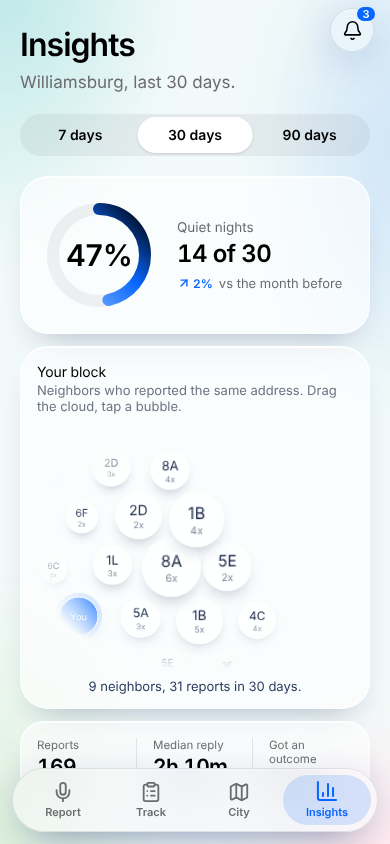
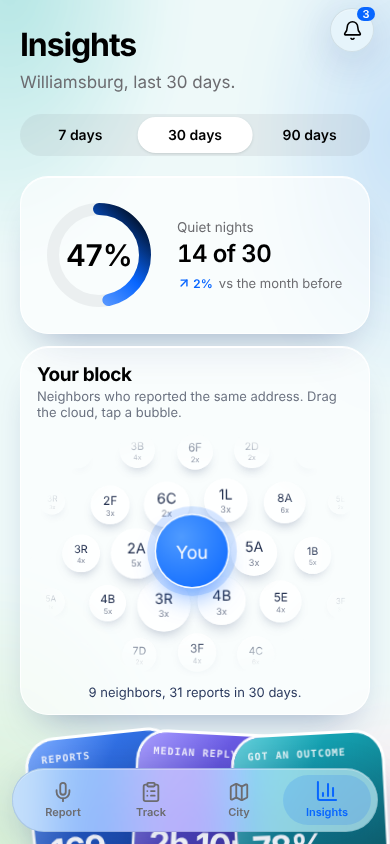
Add swipe cards, noise wheel and expanding stat tiles to the Chime app
Claude-Session: https://claude.ai/code/session_01W1PSgrzxL24zLg65adE4xW

diff --git a/index.html b/index.html
@@ -299,21 +299,21 @@ function FullScreen({children:e}){return(0,L.jsx)(`div`,{className:`phone-screen
 
 <script>if("serviceWorker" in navigator&&location.protocol!=="file:"){addEventListener("load",function(){navigator.serviceWorker.register("sw.js").catch(function(){})})}</script>
 <style id="hm-style">
-/* Chime motion pack: soft mesh, glass cards, springy touch, tilt, bubbles */
-.phone-screen{background:#f5f8fd!important}
+/* Chime motion pack v2: mesh, glass, springs, tilt, swipe cards, expanding tiles, bubbles */
+.phone-screen{background:#f3f7ff!important}
 .phone-screen::before{content:"";position:absolute;inset:-25%;z-index:0;pointer-events:none;background:
-  radial-gradient(38% 28% at 20% 16%,#cfe0ff 0,transparent 72%),
-  radial-gradient(34% 28% at 84% 26%,#e6dcff 0,transparent 72%),
-  radial-gradient(44% 34% at 22% 84%,#cdf0e7 0,transparent 72%),
-  radial-gradient(40% 30% at 88% 88%,#ffe3c9 0,transparent 72%),#f5f8fd;
+  radial-gradient(38% 28% at 20% 16%,#c8dcff 0,transparent 72%),
+  radial-gradient(34% 28% at 84% 26%,#e3d8ff 0,transparent 72%),
+  radial-gradient(44% 34% at 22% 84%,#c7efe5 0,transparent 72%),
+  radial-gradient(40% 30% at 88% 88%,#ffe1c6 0,transparent 72%),#f3f7ff;
   filter:blur(18px) hue-rotate(var(--hm-hue,0deg));animation:hmDrift 24s ease-in-out infinite alternate;transition:filter 1.1s ease}
 @keyframes hmDrift{from{transform:translate(0,0) scale(1)}to{transform:translate(-4%,3%) scale(1.08) rotate(3deg)}}
 .phone-screen>.bg-background{z-index:1;background:transparent!important}
-.phone-screen .moment{background:rgba(255,255,255,.62)!important;-webkit-backdrop-filter:blur(18px) saturate(1.4);backdrop-filter:blur(18px) saturate(1.4);border:1px solid rgba(255,255,255,.85);box-shadow:0 18px 34px -20px rgba(20,40,90,.38),inset 0 1px 0 rgba(255,255,255,.9);transform:perspective(900px) rotateX(var(--hm-rx,0deg)) rotateY(var(--hm-ry,0deg));transition:transform .55s cubic-bezier(.2,.9,.25,1.12)}
-.phone-screen .flex-wrap.gap-2>button:not([class*="bg-accent"]){background:rgba(255,255,255,.7)!important;-webkit-backdrop-filter:blur(10px);backdrop-filter:blur(10px);border:1px solid rgba(255,255,255,.9);box-shadow:0 6px 14px -8px rgba(20,40,90,.3)}
+.phone-screen h1{letter-spacing:-.035em!important;font-weight:700!important}
+.phone-screen .moment{background:rgba(255,255,255,.62)!important;-webkit-backdrop-filter:blur(18px) saturate(1.4);backdrop-filter:blur(18px) saturate(1.4);border:1px solid rgba(255,255,255,.88);box-shadow:0 22px 40px -22px rgba(20,40,110,.42),inset 0 1px 0 rgba(255,255,255,.95);transform:perspective(900px) rotateX(var(--hm-rx,0deg)) rotateY(var(--hm-ry,0deg));transition:transform .55s cubic-bezier(.2,.9,.25,1.12)}
+.phone-screen button[class*="bg-accent"]:not(nav button):not([class*="/15"]){background-image:linear-gradient(180deg,rgba(255,255,255,.22),rgba(255,255,255,0) 55%);box-shadow:0 18px 30px -14px rgba(8,102,255,.75),inset 0 1px 0 rgba(255,255,255,.45)}
 .phone-screen nav ul>span[aria-hidden]{transition-timing-function:cubic-bezier(.3,1.6,.5,1)!important;transition-duration:.7s!important}
 .phone-screen nav button svg{transition-timing-function:cubic-bezier(.3,1.7,.5,1)!important}
-.phone-screen button:active{transition-duration:.1s!important}
 @keyframes hmPop{0%{transform:scale(.9)}45%{transform:scale(1.14)}100%{transform:scale(1)}}
 .hm-pop{animation:hmPop .5s cubic-bezier(.3,1.6,.5,1)}
 .hm-rip{position:absolute;border-radius:50%;pointer-events:none;background:rgba(255,255,255,.5);transform:scale(0);animation:hmRip .75s ease-out forwards}
@@ -321,105 +321,234 @@ function FullScreen({children:e}){return(0,L.jsx)(`div`,{className:`phone-screen
 @keyframes hmRise{from{opacity:0;transform:translateY(18px) scale(.97);filter:blur(6px)}to{opacity:1;transform:none;filter:none}}
 .hm-in{animation:hmRise .7s cubic-bezier(.2,.9,.25,1.05) both}
 
+/* ---- swipe cards (stage cards, noise wheel) ---- */
+.hm-deck{position:relative;height:var(--dh,330px);margin:6px -20px 0;touch-action:pan-y;cursor:grab;user-select:none;-webkit-user-select:none;overflow:visible}
+.hm-deck:active{cursor:grabbing}
+.hm-card{position:absolute;left:50%;top:0;width:var(--cw,250px);height:calc(var(--dh,330px) - 22px);margin-left:calc(var(--cw,250px)/-2);border-radius:32px;overflow:hidden;color:#fff;box-shadow:0 0 0 3px rgba(255,255,255,.96),0 30px 44px -22px rgba(20,30,80,.6);will-change:transform,filter}
+.hm-card .bok{position:absolute;inset:0}.hm-card .bok i{position:absolute;border-radius:50%;filter:blur(14px)}
+.hm-card .in{position:absolute;inset:0;padding:20px 20px 16px;display:flex;flex-direction:column;align-items:center;text-align:center;will-change:opacity}
+.hm-card .kk{font:600 10.5px/1 ui-monospace,Menlo,monospace;letter-spacing:.12em;opacity:.85;margin-top:30px}
+.hm-card h5{margin:10px 0 8px;font-size:22px;line-height:1.08;font-weight:700;letter-spacing:-.025em;text-wrap:balance}
+.hm-card p{margin:0;font-size:13px;line-height:1.35;opacity:.93;max-width:210px}
+.hm-card canvas{position:absolute;left:0;right:0;bottom:12px;width:100%;height:80px}
+.hm-card .here{position:absolute;top:14px;right:14px;font:600 9.5px/1 ui-monospace,Menlo,monospace;letter-spacing:.08em;padding:5px 8px;border-radius:99px;background:rgba(255,255,255,.92);color:#0b2a66}
+.hm-dots{display:flex;justify-content:center;gap:7px;margin-top:4px}
+.hm-dots i{width:7px;height:7px;border-radius:50%;background:rgba(20,40,90,.2);transition:all .4s cubic-bezier(.3,1.5,.5,1)}
+.hm-dots i.on{background:#0b2a66;width:20px;border-radius:5px}
+.hm-sec h3{margin:0 0 2px;font-size:19px;font-weight:700;letter-spacing:-.02em}
+.hm-sec>p{margin:0;font-size:13px;color:#6b7280}
+
+/* ---- tilted stat tiles that expand ---- */
+.hm-tiles{position:relative;height:196px;margin:12px 0 4px}
+.hm-tile{position:absolute;top:8px;width:148px;height:170px;border-radius:28px;color:#fff;padding:14px;cursor:pointer;outline:none;box-shadow:0 0 0 3px rgba(255,255,255,.96),0 26px 38px -20px rgba(20,30,90,.6);transform:rotate(var(--r)) perspective(700px) rotateX(var(--rx,0deg)) rotateY(var(--ry,0deg));transition:transform .5s cubic-bezier(.2,.9,.25,1.1),opacity .3s;animation:hmFloat 6s ease-in-out infinite;overflow:hidden}
+.hm-tile::after{content:"";position:absolute;inset:0;background:linear-gradient(118deg,rgba(255,255,255,.34),rgba(255,255,255,0) 40%);pointer-events:none}
+.hm-tile.hid{opacity:0;pointer-events:none}
+@keyframes hmFloat{0%,100%{translate:0 0}50%{translate:0 -6px}}
+.hm-tile .t1{font:600 10px/1 ui-monospace,Menlo,monospace;letter-spacing:.1em;opacity:.85}
+.hm-tile .t2{position:absolute;left:14px;right:14px;bottom:42px;font-size:34px;line-height:1;font-weight:700;letter-spacing:-.04em}
+.hm-tile .t3{position:absolute;left:14px;right:14px;bottom:14px;font-size:13px;line-height:1.2;opacity:.92}
+.hm-sheet{position:absolute;z-index:70;background:#f7f9ff;overflow:hidden;visibility:hidden;transition:left .62s cubic-bezier(.2,.9,.25,1.04),top .62s cubic-bezier(.2,.9,.25,1.04),width .62s cubic-bezier(.2,.9,.25,1.04),height .62s cubic-bezier(.2,.9,.25,1.04),border-radius .62s cubic-bezier(.2,.9,.25,1.04),transform .62s cubic-bezier(.2,.9,.25,1.04);box-shadow:0 0 0 3px rgba(255,255,255,.96),0 30px 50px -20px rgba(20,30,90,.5)}
+.hm-sheet.show{visibility:visible}.hm-sheet.full{box-shadow:none}
+.hm-sheet .sb{position:absolute;inset:0;padding:68px 24px 40px;opacity:0;transition:opacity .3s}.hm-sheet.in .sb{opacity:1;transition-delay:.25s}
+.hm-sheet .x{position:absolute;right:18px;top:18px;width:38px;height:38px;border-radius:50%;border:0;background:rgba(20,40,90,.1);display:grid;place-items:center;cursor:pointer;z-index:3;opacity:0;transition:opacity .3s}.hm-sheet.in .x{opacity:1;transition-delay:.3s}
+.hm-sheet .kk{font:600 11px/1 ui-monospace,Menlo,monospace;letter-spacing:.1em;color:#6b7280}
+.hm-sheet .big{font-size:64px;line-height:1;font-weight:700;letter-spacing:-.05em;margin:10px 0 6px}
+.hm-sheet h4{margin:0 0 8px;font-size:24px;font-weight:700;letter-spacing:-.03em}
+.hm-sheet p{margin:0 0 14px;font-size:15px;line-height:1.45;color:#46506b}
+.hm-sheet svg.spark{width:100%;height:110px;display:block;border-radius:20px;background:#fff}
+.hm-sheet .note{font-size:12px;color:#8a93a8;margin-top:12px}.hm-sheet .tips{margin:22px 0 0;padding:0;list-style:none;display:grid;gap:10px}.hm-sheet .tips li{font-size:14px;color:#46506b;padding:12px 14px;border-radius:16px;background:rgba(255,255,255,.8);border:1px solid rgba(255,255,255,.9)}
+
+/* ---- bubbles ---- */
 .hm-bubbles{padding:16px 16px 12px!important}
-.hm-bubbles h3{margin:0;font:700 17px/1.2 inherit;letter-spacing:-.01em}
-.hm-bubbles p{margin:2px 0 0;font-size:13px;color:#6b7280}
 .hm-field{position:relative;height:250px;margin:8px -8px 0;overflow:hidden;cursor:grab;touch-action:none;-webkit-mask-image:radial-gradient(closest-side at 50% 50%,#000 68%,transparent 100%);mask-image:radial-gradient(closest-side at 50% 50%,#000 68%,transparent 100%)}
 .hm-b{position:absolute;left:0;top:0;border-radius:50%;display:grid;place-items:center;font:600 12px/1 inherit;color:#1c2a4a;background:rgba(255,255,255,.78);border:1px solid rgba(255,255,255,.95);box-shadow:0 8px 16px -8px rgba(20,40,90,.4);will-change:transform;text-align:center}
 .hm-b small{display:block;font-size:9px;opacity:.6;margin-top:1px}
 .hm-b.you{background:radial-gradient(circle at 35% 30%,#4f9bff,#0866ff);color:#fff;box-shadow:0 0 0 6px rgba(8,102,255,.16),0 12px 22px -8px rgba(8,102,255,.7)}
 .hm-b.sel{background:#fff3c4;box-shadow:0 0 0 5px rgba(255,214,107,.45),0 12px 22px -8px rgba(20,40,90,.45)}
 .hm-info{margin-top:6px;text-align:center;font-size:13px;color:#2b3a5e;min-height:18px}
-@media (prefers-reduced-motion:reduce){.phone-screen::before{animation:none}.hm-in,.hm-pop{animation:none}}
+@media (prefers-reduced-motion:reduce){.phone-screen::before,.hm-tile{animation:none}.hm-in,.hm-pop{animation:none}}
 </style>
 <script id="hm-js">
 (function(){
   try{
-    var root=function(){return document.querySelector('.phone-screen')};
+    var raf=window.requestAnimationFrame.bind(window);
+    function root(){return document.querySelector('.phone-screen')}
     function clamp(v,a,b){return Math.max(a,Math.min(b,v))}
+    function prng(s){return function(){s=(s*16807)%2147483647;return s/2147483647}}
+    function seed(str){var h=2166136261;for(var i=0;i<str.length;i++){h^=str.charCodeAt(i);h=Math.imul(h,16777619)}return (h>>>0)||1}
+    function waveOf(sd){var r=prng(sd),h=[];for(var i=0;i<6;i++)h.push({f:1+r()*9,p:r()*6.28,a:.3+r()*.7,s:.4+r()*1.6});return h}
+    function drawWave(c,w,t,en,col){
+      var d=Math.min(2,window.devicePixelRatio||1),W=c.clientWidth,H=c.clientHeight;if(!W)return;
+      if(c.width!==Math.round(W*d)){c.width=Math.round(W*d);c.height=Math.round(H*d)}
+      var x=c.getContext('2d'),mid=c.height/2,amp=c.height*.36;x.clearRect(0,0,c.width,c.height);
+      for(var L=1;L>=0;L--){x.beginPath();
+        for(var i=0;i<=120;i++){var u=i/120,y=0;for(var k=0;k<w.length;k++){var m=w[k];y+=Math.sin(u*m.f*Math.PI*2*(1+en*.6)+m.p+t*m.s*(1+en*2)+L*.6)*m.a*(k<2?1:en)}
+          y=(y/2.4)*Math.sin(u*Math.PI)*en+Math.sin(u*Math.PI*4+t*1.2)*.04*(1-en)*Math.sin(u*Math.PI);x.lineTo(u*c.width,mid+y*amp*(1-L*.2))}
+        x.lineWidth=(L?1.4:3)*d;x.lineCap='round';x.strokeStyle=col;x.globalAlpha=L?.35:1;x.stroke()}
+      x.globalAlpha=1}
 
-    // ---- tilt the glass cards toward the pointer ----
+    // ---- spring carousel ----
+    function Deck(el,n,step,apply){
+      var o={pos:0,vel:0,target:0,drag:false,idx:-1,onIdx:null,onTap:null},sp=0,down=false,sx=0,sy=0,lx=0,lt=0,vx=0,moved=false,tapEl=null,locked=false;
+      el.addEventListener('pointerdown',function(e){if(e.button>0)return;down=true;moved=false;locked=false;o.drag=false;sx=lx=e.clientX;sy=e.clientY;lt=performance.now();vx=0;tapEl=e.target.closest('.hm-card');sp=o.pos});
+      el.addEventListener('pointermove',function(e){if(!down)return;var tx=e.clientX-sx,ty=e.clientY-sy;
+        if(!o.drag){if(Math.abs(tx)>8&&Math.abs(tx)>Math.abs(ty)){o.drag=true;moved=true;try{el.setPointerCapture(e.pointerId)}catch(_){}}else return}
+        var now=performance.now(),dt=Math.max(1,now-lt);vx=vx*.6+((e.clientX-lx)/dt*16)*.4;lx=e.clientX;lt=now;o.pos=clamp(sp-tx/step,-.4,n-.6);o.vel=0});
+      function up(){if(!down)return;down=false;var wasDrag=o.drag;o.drag=false;
+        if(wasDrag)o.target=clamp(Math.round(o.pos-vx/step*7),0,n-1);
+        else if(!moved&&tapEl&&o.onTap)o.onTap(tapEl)}
+      el.addEventListener('pointerup',up);el.addEventListener('pointercancel',function(){down=false;o.drag=false});
+      o.go=function(i){o.target=i};
+      o.tick=function(){var prev=o.pos;if(!o.drag){o.vel=(o.vel+(o.target-o.pos)*.11)*.78;o.pos+=o.vel}
+        var idx=clamp(Math.round(o.pos),0,n-1);if(idx!==o.idx){o.idx=idx;o.onIdx&&o.onIdx(idx)}apply(o.pos,o.pos-prev)};
+      return o}
+
+    var decks=[],t0=performance.now();
+    function mkCard(g,bokSeed,wseed,inner){
+      var c=document.createElement('div');c.className='hm-card';c.style.background='linear-gradient(165deg,'+g[0]+' 0%,'+g[1]+' 100%)';
+      var r=prng(bokSeed),bok='';for(var k=0;k<6;k++){var sz=40+r()*90;bok+='<i style="width:'+sz+'px;height:'+sz+'px;left:'+(r()*100-15)+'%;top:'+(r()*100-10)+'%;background:rgba(255,255,255,'+(.12+r()*.2)+')"></i>'}
+      c.innerHTML='<div class="bok">'+bok+'</div><div class="in">'+inner+'</div><canvas></canvas>';
+      return {el:c,inn:c.querySelector('.in'),cv:c.querySelector('canvas'),w:waveOf(wseed)}}
+    function layout(cards,step,fan){return function(pos,vel){cards.forEach(function(c,i){var d=i-pos,a=Math.abs(d);
+      c.el.style.transform='translateX('+(d*step)+'px) translateY('+(a*14)+'px) rotate('+(d*fan)+'deg) scale('+(1-Math.min(a,2)*.07)+')';
+      c.el.style.filter='blur('+Math.min(9,a*2.2+Math.abs(vel)*6).toFixed(2)+'px)';c.el.style.zIndex=20-Math.round(a*2);c.el.style.visibility=a>2.3?'hidden':'visible';c.inn.style.opacity=clamp(1-a*1.35,0,1)})}}
+
+    // ================= Track: stage cards =================
+    var STG=[
+      {k:'STAGE 1 OF 5',t:'We heard you.',b:'Your report is on the record, with your spot and the time.',g:['#3b82ff','#0a2a7a'],e:.95},
+      {k:'STAGE 2 OF 5',t:'On the right desk.',b:'It goes to the team that handles this kind of noise.',g:['#7b6bff','#241a73'],e:.75},
+      {k:'STAGE 3 OF 5',t:'We are on the way.',b:'Someone has your case and is heading over.',g:['#17b8c9','#0a4452'],e:.55},
+      {k:'STAGE 4 OF 5',t:'We listened.',b:'They checked, and notes from the visit are on your case.',g:['#34c38f','#0b4a38'],e:.32},
+      {k:'STAGE 5 OF 5',t:'Here is what they decided.',b:'The outcome is posted. Then you tell us if it got quieter.',g:['#5b8cff','#0b1e5b'],e:.12}];
+    var stageNow=1;
+    function readStage(){
+      var leaf=[].slice.call(document.querySelectorAll('main *')).find(function(e){return !e.children.length&&e.textContent.trim()==='We heard you.'&&e.offsetParent!==null});
+      if(!leaf)return stageNow;var c=leaf;for(var i=0;i<8&&c.parentElement;i++){c=c.parentElement;if(/Here is what they decided/.test(c.textContent)&&c.querySelector('svg.lucide-check'))break}
+      return clamp(1+c.querySelectorAll('svg.lucide-check').length,1,5)}
+    function ensureTrack(){
+      var p=[].slice.call(document.querySelectorAll('main p')).find(function(e){return /^You don.t have to carry this alone/.test(e.textContent.trim())&&e.offsetParent!==null});
+      if(!p||document.querySelector('.hm-trackdeck'))return;
+      var sec=document.createElement('div');sec.className='hm-sec hm-trackdeck mt-6';
+      sec.innerHTML='<h3>Where your case is</h3><p>Swipe through the five stages.</p><div class="hm-deck" style="--cw:250px;--dh:340px"></div><div class="hm-dots"></div>';
+      p.parentElement.insertBefore(sec,p);
+      var deck=sec.querySelector('.hm-deck'),dots=sec.querySelector('.hm-dots'),cards=[];
+      stageNow=readStage();
+      STG.forEach(function(s,i){var c=mkCard(s.g,50+i,200+i,'<div class="kk">'+s.k+'</div><h5>'+s.t+'</h5><p>'+s.b+'</p>');
+        var pill=document.createElement('span');pill.className='here';pill.textContent='YOU ARE HERE';c.el.appendChild(pill);c.pill=pill;deck.appendChild(c.el);cards.push(c);dots.appendChild(document.createElement('i'))});
+      var D=Deck(deck,STG.length,226,layout(cards,226,8));D.pos=D.target=stageNow-1;
+      D.onIdx=function(i){[].forEach.call(dots.children,function(d,k){d.className=k===i?'on':''})};
+      decks.push({d:D,tick:function(t){if(!deck.isConnected)return false;var n=readStage();if(n!==stageNow){stageNow=n;D.go(n-1)}
+        cards.forEach(function(c,i){c.pill.style.display=i===stageNow-1?'block':'none';if(Math.abs(i-D.pos)<1.6)drawWave(c.cv,c.w,t,STG[i].e,'rgba(255,255,255,.95)')});D.tick();return true}});
+    }
+
+    // ================= Report: noise card wheel =================
+    var NZ=[['Music or party',['#7b5cff','#2a1a7a']],['Construction',['#ff8a3d','#7a3300']],['Car horns',['#ff4d6d','#6e0a25']],['Neighbors',['#35c2a8','#0a4a3f']],['AC or vents',['#9aa6c4','#2f3858']],['Bar or club',['#4d8dff','#0c2b6e']],['Sirens',['#ff5a5a','#5a0b0b']],['Deliveries',['#e8b33a','#6b4a00']]];
+    var chipsEl=null;
+    function chipBox(){if(chipsEl&&chipsEl.isConnected)return chipsEl;chipsEl=[].slice.call(document.querySelectorAll('main .flex-wrap')).find(function(e){return e.offsetParent!==null&&/Music or party/.test(e.textContent)&&/Deliveries/.test(e.textContent)})||null;return chipsEl}
+    function chipByName(n){var b=chipBox();return b&&[].slice.call(b.querySelectorAll('button')).find(function(x){return x.textContent.trim()===n})}
+    function selIdx(){var b=chipBox();if(!b)return 0;var k=[].slice.call(b.querySelectorAll('button')).findIndex(function(x){return x.getAttribute('aria-pressed')==='true'});return k<0?0:k}
+    function ensureWheel(){
+      var box=chipBox();if(!box||document.querySelector('.hm-wheel'))return;
+      var wrap=document.createElement('div');wrap.className='hm-wheel';wrap.innerHTML='<div class="hm-deck" style="--cw:170px;--dh:196px;margin-top:8px"></div><div class="hm-dots"></div>';
+      box.parentElement.insertBefore(wrap,box);box.style.display='none';
+      var deck=wrap.querySelector('.hm-deck'),dots=wrap.querySelector('.hm-dots'),cards=[];
+      NZ.forEach(function(z,i){var c=mkCard(z[1],70+i,300+i,'<div class="kk">THE RACKET</div><h5 style="margin-top:14px">'+z[0]+'</h5>');c.el.querySelector('h5').style.fontSize='20px';deck.appendChild(c.el);cards.push(c);dots.appendChild(document.createElement('i'))});
+      var D=Deck(deck,NZ.length,150,layout(cards,150,6));D.pos=D.target=selIdx();var settle=0,lastSel=selIdx();
+      D.onIdx=function(i){[].forEach.call(dots.children,function(d,k){d.className=k===i?'on':''});if(i!==selIdx()){var b=chipByName(NZ[i][0]);if(b)b.click()}};
+      D.onTap=function(el){var i=cards.findIndex(function(c){return c.el===el});if(i>=0)D.go(i)};
+      decks.push({d:D,tick:function(t){if(!deck.isConnected)return false;var s=selIdx();if(s!==lastSel){lastSel=s;if(Math.round(D.pos)!==s)D.go(s)}
+        cards.forEach(function(c,i){if(Math.abs(i-D.pos)<1.6)drawWave(c.cv,c.w,t,.85,'rgba(255,255,255,.95)')});D.tick();return true}});
+    }
+
+    // ================= Insights: tilted tiles that expand =================
+    var TILES=[
+      {k:'REPORTS',big:null,sub:'filed this week',g:['#3b82ff','#0a2a7a'],r:-6,l:'4%',d:'How many noise complaints were filed in your neighborhood this week. Reports at the same address are grouped, so one noisy spot counts once on your case.',seedv:3},
+      {k:'MEDIAN REPLY',big:null,sub:'to a first answer',g:['#7b6bff','#241a73'],r:3,l:'33%',d:'Half of reports get a first answer faster than this. It is the quickest way to see how the city is keeping up.',seedv:5},
+      {k:'GOT AN OUTCOME',big:null,sub:'ended in writing',g:['#17b8c9','#0a4452'],r:-3,l:'62%',d:'The share of reports that ended with a written outcome you can read, not just a closed ticket.',seedv:8}];
+    var sheetOpen=false;
+    function ensureStats(){
+      var st=document.querySelector('.anim-step');if(!st||!/Median reply/.test(st.textContent))return;
+      var grid=[].slice.call(st.querySelectorAll('section.moment')).find(function(e){return /Median reply/.test(e.textContent)&&/Got an outcome/.test(e.textContent)&&!e.classList.contains('hm-bubbles')});
+      if(!grid||st.querySelector('.hm-tiles'))return;
+      var vals=[].slice.call(grid.querySelectorAll('div.px-4')).map(function(d){return (d.innerText||'').trim().split(/\n+/)});
+      TILES.forEach(function(t,i){t.big=(vals[i]&&vals[i][1])||['169','2 h 10 m','78%'][i]});
+      var wrap=document.createElement('div');wrap.className='hm-tiles';
+      TILES.forEach(function(t){var el=document.createElement('div');el.className='hm-tile';el.tabIndex=0;el.setAttribute('role','button');el.setAttribute('aria-label',t.k+' '+t.big);el.style.left=t.l;el.style.setProperty('--r',t.r+'deg');el.style.background='linear-gradient(155deg,'+t.g[0]+','+t.g[1]+')';el.style.animationDelay=(-t.r)+'s';
+        el.innerHTML='<div class="t1">'+t.k+'</div><div class="t2">'+t.big+'</div><div class="t3">'+t.sub+'</div>';
+        el.addEventListener('pointermove',function(e){var r=el.getBoundingClientRect();el.style.setProperty('--ry',(((e.clientX-r.left)/r.width-.5)*18).toFixed(1)+'deg');el.style.setProperty('--rx',((-((e.clientY-r.top)/r.height-.5))*18).toFixed(1)+'deg')});
+        el.addEventListener('pointerleave',function(){el.style.setProperty('--rx','0deg');el.style.setProperty('--ry','0deg')});
+        el.addEventListener('click',function(){openSheet(el,t)});el.addEventListener('keydown',function(e){if(e.key==='Enter'||e.key===' '){e.preventDefault();openSheet(el,t)}});wrap.appendChild(el)});
+      grid.style.display='none';grid.insertAdjacentElement('afterend',wrap);
+    }
+    function sparkSvg(sd){var r=prng(sd*97),pts=[],v=.5;for(var i=0;i<14;i++){v=clamp(v+(r()-.5)*.4,.15,.9);pts.push([i/13*300,100-v*80])}
+      var d=pts.map(function(p,i){return (i?'L':'M')+p[0].toFixed(1)+' '+p[1].toFixed(1)}).join(' ');
+      return '<svg class="spark" viewBox="0 0 300 110" preserveAspectRatio="none"><path d="'+d+' L300 110 L0 110Z" fill="rgba(8,102,255,.12)"/><path d="'+d+'" fill="none" stroke="#0866ff" stroke-width="3" stroke-linecap="round" stroke-linejoin="round"/><circle cx="300" cy="'+pts[13][1].toFixed(1)+'" r="5" fill="#0866ff"/></svg>'}
+    function openSheet(tile,t){
+      if(sheetOpen)return;var rt=root(),pr=rt.getBoundingClientRect(),tr=tile.getBoundingClientRect(),sc=pr.width/rt.offsetWidth||1;
+      sheetOpen=true;var sh=document.createElement('div');sh.className='hm-sheet';
+      sh.innerHTML='<button class="x" aria-label="Close"><svg viewBox="0 0 20 20" width="14" height="14"><path d="M4 4l12 12M16 4L4 16" stroke="#0b2a66" stroke-width="2.4" stroke-linecap="round"/></svg></button><div class="sb"><div class="kk">'+t.k+' · WILLIAMSBURG</div><div class="big">'+t.big+'</div><h4>What this means</h4><p>'+t.d+'</p>'+sparkSvg(t.seedv)+'<div class="note">Last 14 days. Simulated example data, not live 311.</div><ul class="tips"><li>Tap the X to put the tile back.</li><li>The line is a trend, not a promise.</li><li>Your block above shows who else is hearing it.</li></ul></div>';
+      rt.appendChild(sh);
+      var L=(tr.left-pr.left)/sc,T=(tr.top-pr.top)/sc,W=tr.width/sc,H=tr.height/sc,rot=getComputedStyle(tile).getPropertyValue('--r')||'0deg';
+      function place(){sh.style.left=L+'px';sh.style.top=T+'px';sh.style.width=W+'px';sh.style.height=H+'px';sh.style.borderRadius='28px';sh.style.transform='rotate('+t.r+'deg)'}
+      sh.style.transition='none';place();sh.classList.add('show');void sh.offsetWidth;sh.style.transition='';tile.classList.add('hid');
+      raf(function(){sh.style.left='0px';sh.style.top='0px';sh.style.width='100%';sh.style.height='100%';sh.style.borderRadius='44px';sh.style.transform='rotate(0deg)';sh.classList.add('full');setTimeout(function(){sh.classList.add('in')},40)});
+      function close(){sh.classList.remove('in','full');L=(tile.getBoundingClientRect().left-pr.left)/sc;T=(tile.getBoundingClientRect().top-pr.top)/sc;place();setTimeout(function(){tile.classList.remove('hid');sh.remove();sheetOpen=false},620)}
+      sh.querySelector('.x').addEventListener('click',close);
+    }
+
+    // ================= pointer polish =================
     var cur=null;
     function reset(c){if(!c)return;c.style.setProperty('--hm-rx','0deg');c.style.setProperty('--hm-ry','0deg');if(cur===c)cur=null}
     document.addEventListener('pointermove',function(e){
       var c=e.target&&e.target.closest?e.target.closest('.moment:not(.hm-bubbles)'):null;
-      if(!c){if(cur)reset(cur);return}
-      if(cur&&cur!==c)reset(cur);cur=c;
-      var r=c.getBoundingClientRect();
-      c.style.setProperty('--hm-ry',(((e.clientX-r.left)/r.width-.5)*9).toFixed(2)+'deg');
-      c.style.setProperty('--hm-rx',((-((e.clientY-r.top)/r.height-.5))*9).toFixed(2)+'deg');
-    },true);
+      if(!c){if(cur)reset(cur);return}if(cur&&cur!==c)reset(cur);cur=c;
+      var r=c.getBoundingClientRect();c.style.setProperty('--hm-ry',(((e.clientX-r.left)/r.width-.5)*9).toFixed(2)+'deg');c.style.setProperty('--hm-rx',((-((e.clientY-r.top)/r.height-.5))*9).toFixed(2)+'deg')},true);
     ['pointerup','pointercancel','pointerleave'].forEach(function(t){document.addEventListener(t,function(){reset(cur)},true)});
-
-    // ---- ripple on primary buttons ----
     document.addEventListener('pointerdown',function(e){
       var b=e.target&&e.target.closest?e.target.closest('button'):null;
-      if(!b||b.closest('nav')||!/bg-accent|h-\[50px\]/.test(b.className)||b.getBoundingClientRect().width<120)return;
+      if(!b||b.closest('nav')||b.closest('.hm-sheet')||!/bg-accent|h-\[50px\]/.test(b.className)||b.getBoundingClientRect().width<120)return;
       var r=b.getBoundingClientRect(),d=Math.max(r.width,r.height)*1.3,s=document.createElement('span');
-      var pos=getComputedStyle(b).position;if(pos==='static')b.style.position='relative';b.style.overflow='hidden';
-      s.className='hm-rip';s.style.width=s.style.height=d+'px';s.style.left=(e.clientX-r.left-d/2)+'px';s.style.top=(e.clientY-r.top-d/2)+'px';
-      b.appendChild(s);setTimeout(function(){s.remove()},800);
-    },true);
+      if(getComputedStyle(b).position==='static')b.style.position='relative';b.style.overflow='hidden';
+      s.className='hm-rip';s.style.width=s.style.height=d+'px';s.style.left=(e.clientX-r.left-d/2)+'px';s.style.top=(e.clientY-r.top-d/2)+'px';b.appendChild(s);setTimeout(function(){s.remove()},800)},true);
 
-    // ---- chips pop when selected, cards rise in, tab hue ----
+    // ================= scan / mount =================
     var HUES=[0,40,110,-50],seen=new WeakSet();
     function scan(){
       var rt=root();if(!rt)return;
       rt.querySelectorAll('.moment').forEach(function(m,i){if(!seen.has(m)){seen.add(m);if(!m.classList.contains('hm-bubbles')){m.classList.add('hm-in');m.style.animationDelay=(i*70)+'ms'}}});
       var btns=[].slice.call(rt.querySelectorAll('nav button')),ai=btns.findIndex(function(b){return b.getAttribute('aria-current')==='page'});
       if(ai>=0)rt.style.setProperty('--hm-hue',(HUES[ai]||0)+'deg');
-      ensureBubbles();
+      ensureWheel();ensureTrack();ensureStats();ensureBubbles();
+      if(decks.length&&!scan.loop){scan.loop=true;(function frame(){var t=(performance.now()-t0)/1000;decks=decks.filter(function(d){return d.tick(t)});if(decks.length)raf(frame);else scan.loop=false})()}
     }
     var prevSel=new WeakMap();
     new MutationObserver(function(muts){
-      muts.forEach(function(m){
-        if(m.type==='attributes'&&m.target.tagName==='BUTTON'&&m.target.parentElement&&/flex-wrap/.test(m.target.parentElement.className)){
-          var on=/bg-accent/.test(m.target.className);
-          if(on&&!prevSel.get(m.target)){m.target.classList.remove('hm-pop');void m.target.offsetWidth;m.target.classList.add('hm-pop')}
-          prevSel.set(m.target,on);
-        }
-      });
-      clearTimeout(scan.t);scan.t=setTimeout(scan,120);
-    }).observe(document.body,{subtree:true,childList:true,attributes:true,attributeFilter:['class','aria-current']});
-
-    // ---- "Your block" bubble cloud on the Insights screen ----
-    function prng(s){return function(){s=(s*16807)%2147483647;return s/2147483647}}
+      muts.forEach(function(m){if(m.type==='attributes'&&m.target.tagName==='BUTTON'&&m.target.parentElement&&/flex-wrap/.test(m.target.parentElement.className)){var on=m.target.getAttribute('aria-pressed')==='true';if(on&&!prevSel.get(m.target)){m.target.classList.remove('hm-pop');void m.target.offsetWidth;m.target.classList.add('hm-pop')}prevSel.set(m.target,on)}});
+      clearTimeout(scan.t);scan.t=setTimeout(scan,120)}).observe(document.body,{subtree:true,childList:true,attributes:true,attributeFilter:['class','aria-current','aria-pressed']});
+    // ---- Your block bubbles ----
     function buildBubbles(sec){
       var f=sec.querySelector('.hm-field'),info=sec.querySelector('.hm-info'),R=prng(9),D=58,units=['2F','3R','4B','5A','1L','6C','2A','7D','3F','4C','5E','1B','8A','2D','6F','3B'];
       var dirs=[[1,0],[1,-1],[0,-1],[-1,0],[-1,1],[0,1]],cells=[[0,0]];
       [1,2,3].forEach(function(k){var q=-k,r=k;for(var s=0;s<6;s++)for(var j=0;j<k;j++){cells.push([q,r]);q+=dirs[s][0];r+=dirs[s][1]}});
       var bubs=[],pan={x:0,y:0,vx:0,vy:0,drag:false},sel=null,tap=null,down=false,sx=0,sy=0,lx=0,ly=0,lt=0,W=350,H=250,BR=110;
-      cells.forEach(function(qr,i){
-        var x=D*(qr[0]+qr[1]/2)+(R()-.5)*6,y=D*(.866*qr[1])+(R()-.5)*6,you=i===0,size=you?58:42+R()*10,n=1+Math.floor(R()*6),u=units[i%units.length];
-        var el=document.createElement('div');el.className='hm-b'+(you?' you':'');el.style.width=el.style.height=size+'px';
-        el.innerHTML=you?'<span>You</span>':'<span>'+u+'<small>'+n+'x</small></span>';el.dataset.u=u;el.dataset.n=n;el.dataset.you=you?1:0;f.appendChild(el);bubs.push({el:el,x:x,y:y,s:size});
-      });
-      function frame(){
-        if(!f.isConnected)return;
+      cells.forEach(function(qr,i){var x=D*(qr[0]+qr[1]/2)+(R()-.5)*6,y=D*(.866*qr[1])+(R()-.5)*6,you=i===0,size=you?58:42+R()*10,n=1+Math.floor(R()*6),u=units[i%units.length];
+        var el=document.createElement('div');el.className='hm-b'+(you?' you':'');el.style.width=el.style.height=size+'px';el.innerHTML=you?'<span>You</span>':'<span>'+u+'<small>'+n+'x</small></span>';el.dataset.u=u;el.dataset.n=n;el.dataset.you=you?1:0;f.appendChild(el);bubs.push({el:el,x:x,y:y,s:size})});
+      function frame(){if(!f.isConnected)return;
         if(!pan.drag){pan.x+=pan.vx;pan.y+=pan.vy;pan.vx*=.94;pan.vy*=.94;pan.x-=(pan.x-clamp(pan.x,-BR,BR))*.14;pan.y-=(pan.y-clamp(pan.y,-BR,BR))*.14}
-        W=f.clientWidth||W;
-        bubs.forEach(function(b){var x=b.x+pan.x,y=b.y+pan.y,d=Math.hypot(x,y),s=clamp(1.3-d/215,.3,1.3);
-          b.el.style.transform='translate('+(W/2+x-b.s/2).toFixed(1)+'px,'+(H/2+y-b.s/2).toFixed(1)+'px) scale('+s.toFixed(3)+')';b.el.style.opacity=clamp(s*1.7,.1,1).toFixed(2);b.el.style.zIndex=Math.round(s*10)});
-        requestAnimationFrame(frame);
-      }
+        W=f.clientWidth||W;bubs.forEach(function(b){var x=b.x+pan.x,y=b.y+pan.y,d=Math.hypot(x,y),s=clamp(1.3-d/215,.3,1.3);
+          b.el.style.transform='translate('+(W/2+x-b.s/2).toFixed(1)+'px,'+(H/2+y-b.s/2).toFixed(1)+'px) scale('+s.toFixed(3)+')';b.el.style.opacity=clamp(s*1.7,.1,1).toFixed(2);b.el.style.zIndex=Math.round(s*10)});raf(frame)}
       f.addEventListener('pointerdown',function(e){down=true;pan.drag=true;pan.vx=pan.vy=0;sx=lx=e.clientX;sy=ly=e.clientY;lt=performance.now();tap=e.target.closest('.hm-b');try{f.setPointerCapture(e.pointerId)}catch(_){}});
       f.addEventListener('pointermove',function(e){if(!down)return;var now=performance.now(),dt=Math.max(1,now-lt),dx=e.clientX-lx,dy=e.clientY-ly;pan.vx=pan.vx*.6+(dx/dt*16)*.4;pan.vy=pan.vy*.6+(dy/dt*16)*.4;pan.x+=dx*(Math.abs(pan.x)>BR?.35:1);pan.y+=dy*(Math.abs(pan.y)>BR?.35:1);lx=e.clientX;ly=e.clientY;lt=now});
-      function up(e){if(!down)return;down=false;pan.drag=false;if(Math.hypot(e.clientX-sx,e.clientY-sy)<7&&tap){
-        if(sel)sel.classList.remove('sel');
+      function up(e){if(!down)return;down=false;pan.drag=false;if(Math.hypot(e.clientX-sx,e.clientY-sy)<7&&tap){if(sel)sel.classList.remove('sel');
         if(tap.dataset.you==='1'){info.textContent='That is you, grouped with 8 neighbors at this address.';sel=null}
         else{sel=tap;tap.classList.add('sel');info.textContent='Apt '+tap.dataset.u+' reported '+tap.dataset.n+(tap.dataset.n==='1'?' time':' times')+' this month. Same address, so one case.'}}tap=null}
-      f.addEventListener('pointerup',up);f.addEventListener('pointercancel',up);
-      requestAnimationFrame(frame);
-    }
+      f.addEventListener('pointerup',up);f.addEventListener('pointercancel',up);raf(frame)}
     function ensureBubbles(){
-      var st=document.querySelector('.anim-step');
-      if(!st||!/Median reply|reports this week|Quiet nights/i.test(st.textContent)){return}
-      if(st.querySelector('.hm-bubbles'))return;
+      var st=document.querySelector('.anim-step');if(!st||!/Median reply|reports this week|Quiet nights/i.test(st.textContent)||st.querySelector('.hm-bubbles'))return;
       var first=st.querySelector('section.moment');if(!first)return;
-      var sec=document.createElement('section');sec.className='moment hm-bubbles mt-3 rounded-[28px]';
+      var sec=document.createElement('section');sec.className='moment hm-bubbles hm-sec mt-3 rounded-[28px]';
       sec.innerHTML='<h3>Your block</h3><p>Neighbors who reported the same address. Drag the cloud, tap a bubble.</p><div class="hm-field"></div><div class="hm-info">9 neighbors, 31 reports in 30 days.</div>';
-      first.insertAdjacentElement('afterend',sec);buildBubbles(sec);
-    }
+      first.insertAdjacentElement('afterend',sec);buildBubbles(sec)}
     scan();
   }catch(err){try{console.warn('hm overlay',err)}catch(_){}}
 })();
